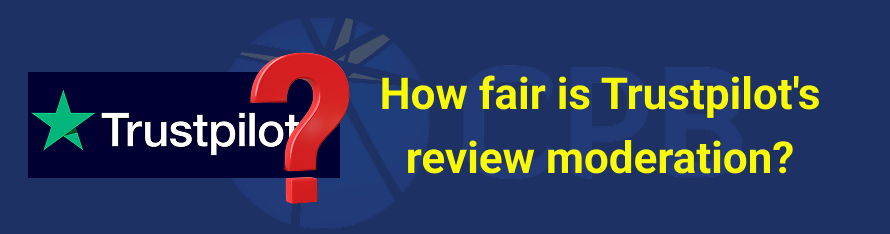
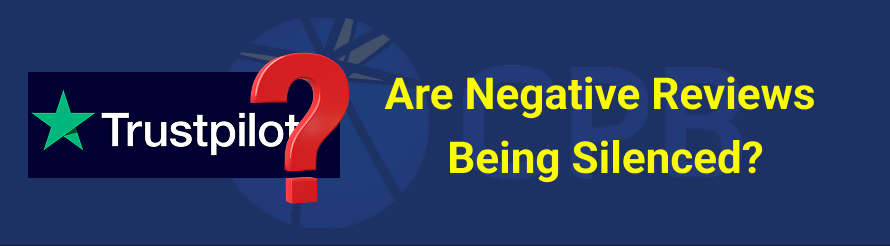
commit

diff --git a/news/are-trustpilot-reviews-moderated-fairly.php b/news/are-trustpilot-reviews-moderated-fairly.php
@@ -82,14 +82,19 @@ if (isset($_POST['form-contact'])) {
                         alt="Join Consumer Protection Bureau - Consumer protection bureau" class="w-100 h-auto">
 
                     <div class="px-lg-4 mx-2 px-3">
-                        <h1 class="news-heading text-uppercase  my-3">
+                        <h1 class=" main-heading text-uppercase  my-3">
                             <span class="text-alert">
-                                Are Trustpilot Reviews Moderated Fairly?
+                                
+                                Consumer Trust or Corporate Control?<br>
+                            
                             </span>
+                             
                         </h1>
 
-
-                        <h2 class="subtitle-bullet">CPB Demands Answers Amid Escalating Complaints</h2>
+                    <h2 class="news-heading text-uppercase text-primary">
+                        Trustpilot’s Integrity Under Fire as Consumers Fight for Honest Reviews
+                    </h2>
+                        <h2 class="subtitle-bullet mt-3">CPB Demands Answers Amid Escalating Complaints</h2>
                         <p class="text">
                             <b>LONDON, 18 July 2025</b> — The Consumer Protection Bureau (CPB) has launched a formal
                             public
